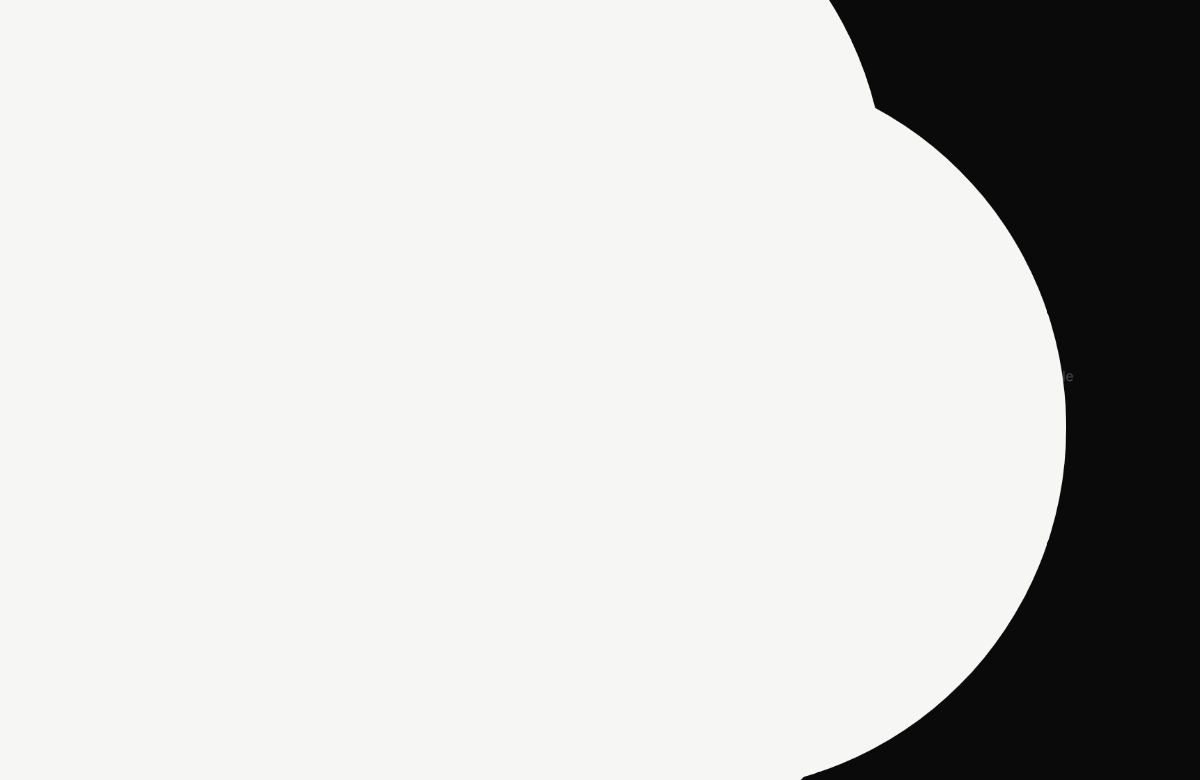
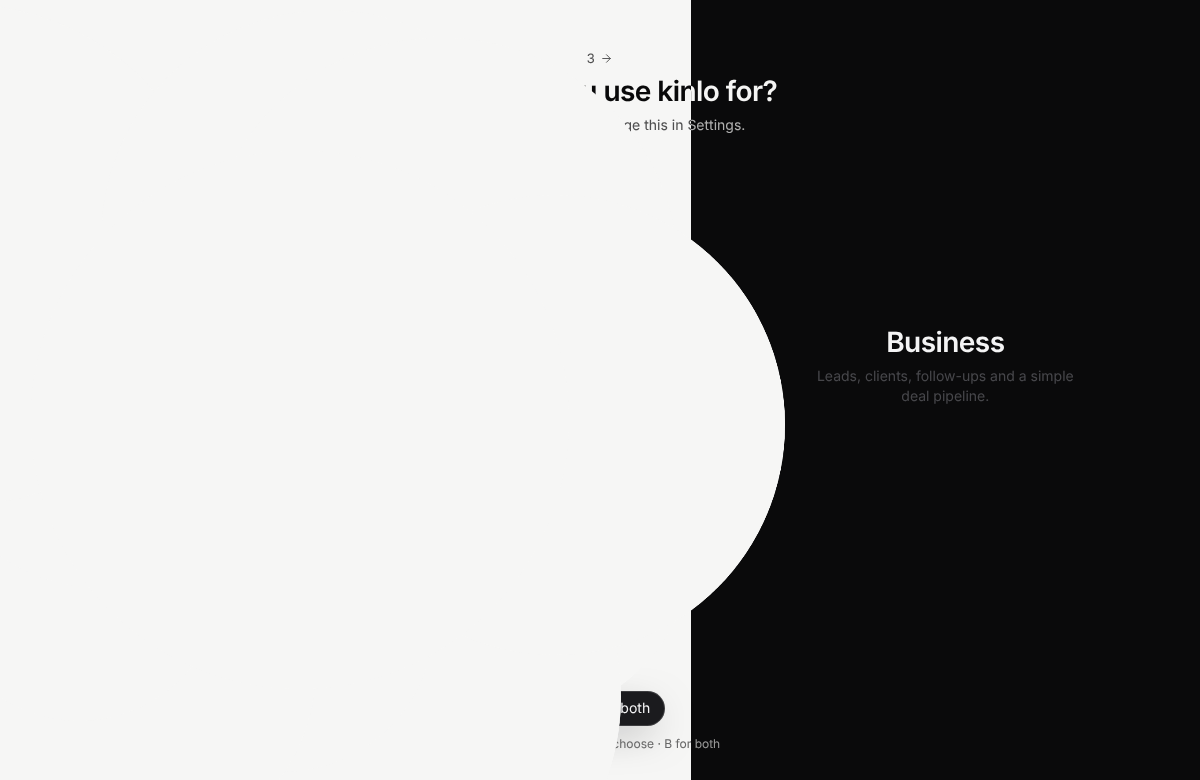
Let the bleed settle into the theme before the app appears
The chosen side's colour still spreads across the window, then eases into
the app's own background while covering it, so a light bleed no longer
flashes against a dark app. Choosing both rises in a mid grey that shows
over either half.

Claude-Session: https://claude.ai/code/session_01KWgx7jSn8aHw94Nc7ymrwN

Changed region(s): [[0.4933, 0.0, 0.8942, 1.0]]

diff --git a/src/features/onboarding/Bleed.tsx b/src/features/onboarding/Bleed.tsx
@@ -2,8 +2,10 @@ import { useEffect, useMemo } from "react";
 import { motion, useReducedMotionConfig } from "motion/react";
 
 /**
- * The bleed: a colour that spreads across the whole window like ink, covers it, and then
- * fades away to show what is underneath.
+ * The bleed: a colour that spreads across the whole window like ink and covers it. While
+ * the window is covered the colour settles into the app's own background, and then the
+ * whole thing fades away to show what is underneath. Settling first means a light bleed
+ * never flashes against a dark app, or the other way round.
  *
  *   from a point      spreads outwards from where you clicked
  *   from the bottom   rises from the bottom edge to the top
@@ -12,8 +14,14 @@ export type BleedOrigin = { kind: "point"; x: number; y: number } | { kind: "bot
 
 export interface BleedSpec {
   origin: BleedOrigin;
+  /** The colour that spreads. */
   color: string;
+  /** The app's background, which the colour settles into before it clears. */
+  settleTo: string;
 }
+
+const SETTLE = 0.32;
+const CLEAR = 0.45;
 
 interface Props {
   spec: BleedSpec;
@@ -44,15 +52,20 @@ export function Bleed({ spec, phase, onCovered, onCleared }: Props) {
     return () => clearTimeout(timer);
   }, [reduced, phase, onCovered]);
 
+  const clearing = phase === "clearing";
+  // Nothing to settle when the bleed is already the colour of the app.
+  const settles = !reduced && spec.color.toLowerCase() !== spec.settleTo.toLowerCase();
+
   return (
     <motion.div
       aria-hidden
       className="pointer-events-none fixed inset-0 z-[100] overflow-hidden"
       initial={{ opacity: reduced ? 0 : 1 }}
-      animate={{ opacity: phase === "clearing" ? 0 : 1 }}
-      transition={{ duration: phase === "clearing" ? 0.45 : 0.2, ease: "easeOut" }}
-      onAnimationComplete={() => phase === "clearing" && onCleared()}
-      style={reduced ? { background: spec.color } : undefined}
+      animate={{ opacity: clearing ? 0 : 1 }}
+      transition={{ duration: clearing ? CLEAR : 0.2, delay: clearing && settles ? SETTLE : 0, ease: "easeOut" }}
+      onAnimationComplete={() => clearing && onCleared()}
+      // With less motion there is no spreading colour, only a fade to the app's background and back.
+      style={reduced ? { background: spec.settleTo } : undefined}
     >
       {!reduced &&
         (spec.origin.kind === "point" ? (
@@ -60,6 +73,15 @@ export function Bleed({ spec, phase, onCovered, onCleared }: Props) {
         ) : (
           <FromBottom w={w} h={h} color={spec.color} onCovered={onCovered} />
         ))}
+      {settles && (
+        <motion.div
+          className="absolute inset-0"
+          style={{ background: spec.settleTo }}
+          initial={{ opacity: 0 }}
+          animate={{ opacity: clearing ? 1 : 0 }}
+          transition={{ duration: SETTLE, ease: "easeInOut" }}
+        />
+      )}
     </motion.div>
   );
 }

diff --git a/src/features/onboarding/Onboarding.tsx b/src/features/onboarding/Onboarding.tsx
@@ -15,13 +15,17 @@ export interface OnboardingResult {
   sides: SidesChoice;
   activeSide: Side;
   userName: string | null;
-  /** Where the bleed starts, and in which colour. */
+  /** Where the bleed starts, in which colour, and the app background it settles into. */
   origin: BleedOrigin;
   color: string;
+  settleTo: string;
 }
 
 /** The two halves are fixed colours whatever the theme: personal is light, business is dark. */
 export const SIDE_COLOR: Record<Side, string> = { personal: "#f6f6f5", business: "#0a0a0b" };
+
+/** Both sides together: the grey halfway between the two, so it shows over either half. */
+export const BOTH_COLOR = "#7f7f82";
 
 const STEPS = ["welcome", "name", "theme", "sides"] as const;
 type Step = (typeof STEPS)[number];
@@ -56,7 +60,8 @@ export function Onboarding({ onChoose }: { onChoose: (result: OnboardingResult) 
       activeSide: sides === "business" ? "business" : "personal",
       userName: name.trim() || null,
       origin,
-      color: sides === "both" ? background : SIDE_COLOR[sides],
+      color: sides === "both" ? BOTH_COLOR : SIDE_COLOR[sides],
+      settleTo: background,
     });
   };
 

diff --git a/src/app/Root.tsx b/src/app/Root.tsx
@@ -21,7 +21,7 @@ export function Root() {
   const begin = (result: OnboardingResult) => {
     if (pending.current) return;
     pending.current = result;
-    setBleed({ spec: { origin: result.origin, color: result.color }, phase: "covering" });
+    setBleed({ spec: { origin: result.origin, color: result.color, settleTo: result.settleTo }, phase: "covering" });
   };
 
   // The window is covered: save the answers and swap in the app behind the colour.
